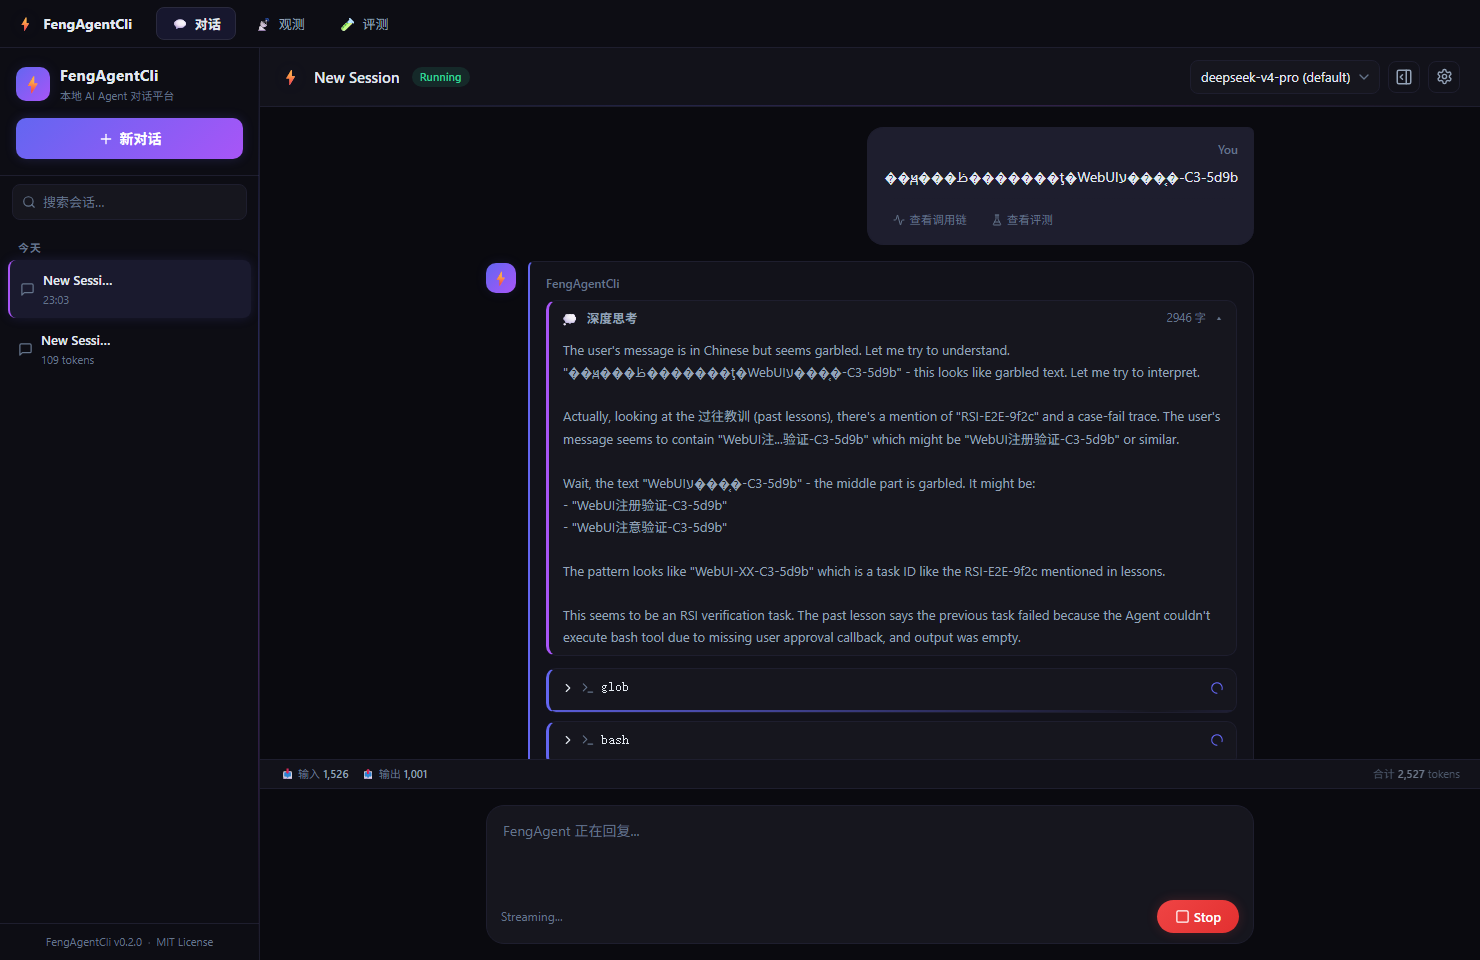
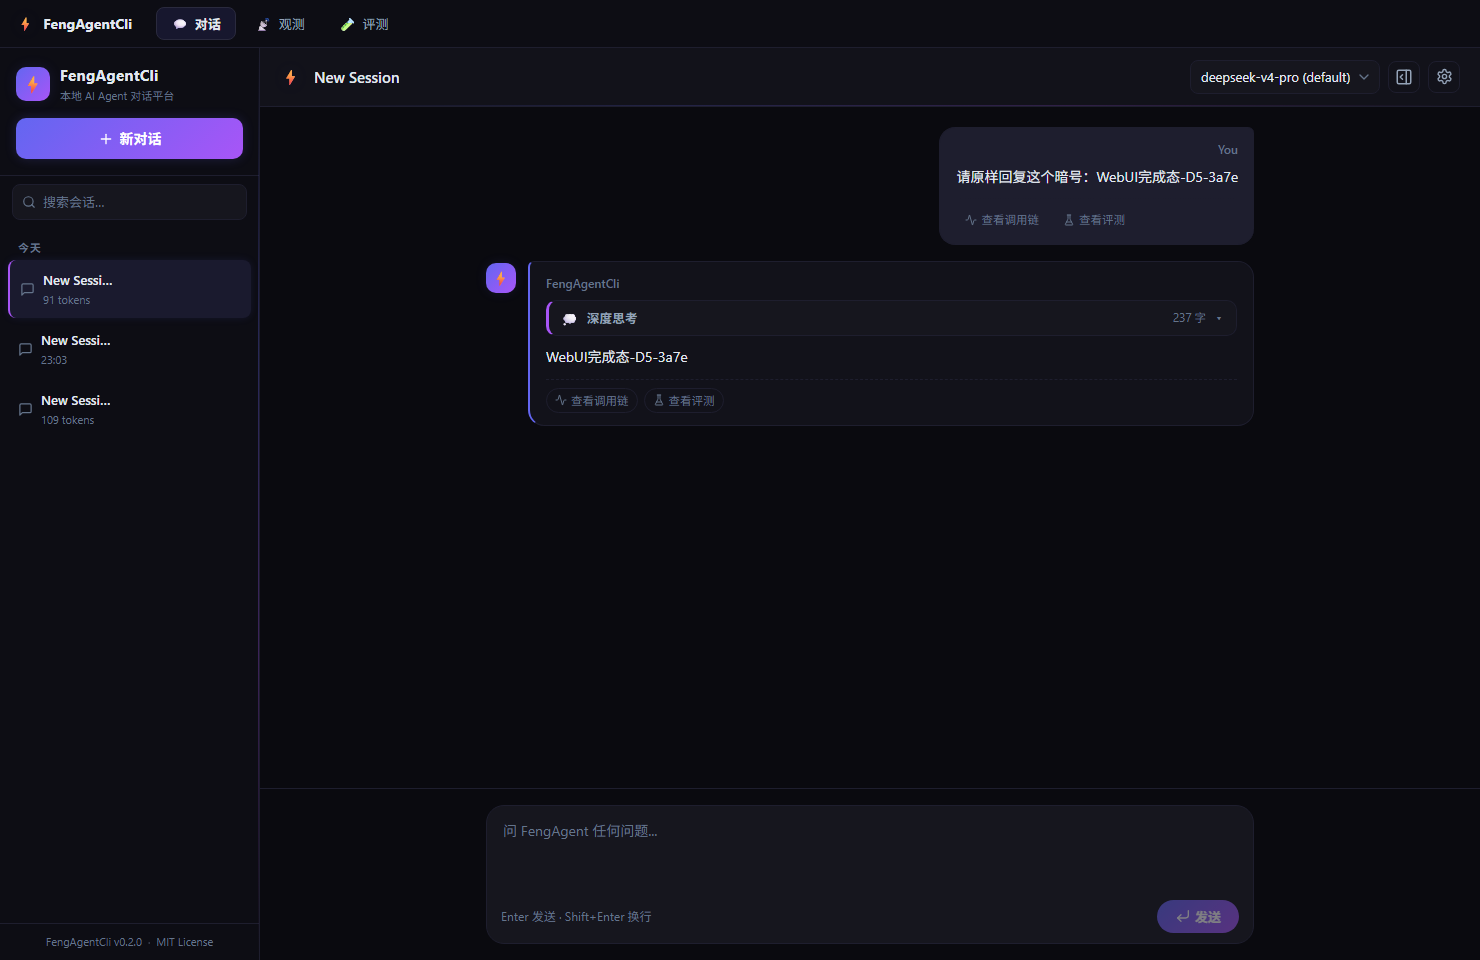
docs(verify): RSI 多端验证报告修订版 v2 — TUI 降级标注 + WebUI 完成态/UTF-8 重拍 + 渲染示意标注 + 计数修正（AGE-29）
按 claude大哥 复核意见逐项修订：
- TUI：已尝试 winpty（崩溃）+ 非 tty → 降级 print 并如实标注，
  TUI 渲染由 committed 测试覆盖；
- WebUI：API 发 UTF-8 → 等 run-end（完成态）→ 重拍截图，
  DOM 确认无乱码、消息可见；
- 00/02/03/09 明确标注「渲染示意」+ 原始 stdout 全保留；
- 截图计数修正（6 PNG + 9 TXT）、复跑命令改引已提交路径、
  effect_json 完整 JSON 在 .txt、资产单侧原因说明。
新增 11/12（第二轮 SSE + DB 取证），injectedCount=3 三个会话各 +1。

diff --git a/docs/verify/AGE-29-RSI-multimode/REPORT.md b/docs/verify/AGE-29-RSI-multimode/REPORT.md
@@ -1,121 +1,130 @@
-# AGE-29 RSI 首期 + 运行态接线：多端真机验证报告
+# AGE-29 RSI 首期 + 运行态接线：多端真机验证报告（修订版 v2）
 
 > 验证日期：2026-10-19 · 验证人：KG开发 · 分支：main @ `fd49e6a`（origin 一致）
-> 约束：只验证 + 产出测试资产，不改功能代码（本轮零功能改动）。
+> 修订说明：v1 复核发现「多端覆盖 + 完整截图」不达标（CLI 用 print 非 TUI、WebUI 乱码 + 未到完成态、PIL 渲染未标注）。v2 逐项修订，变更记录见第八节。
 
 ## 一、环境
 
 | 项 | 值 |
 |---|---|
-| 分支 / commit | `main` @ `fd49e6a`（RSI 首期 `9d71f3f` + 运行态接线适配） |
-| 数据根（隔离） | `FENG_DATA_DIR=.verify-rsi/data`（独立于生产数据，测试后可整目录删除） |
-| 测试集 | `.verify-rsi/data/testsets/rsi-verify.json`（2 用例：1 简单回显 + 1 需 bash 工具） |
-| LLM | deepseek-v4-pro（openai-compatible gateway，真实模型调用） |
-| 验证端 | CLI print 模式（`bun run packages/cli/src/entry.ts --print`）· WebUI（`bun run serve` :3200 + 浏览器 CDP） |
+| 分支 / commit | `main` @ `fd49e6a` |
+| 数据根（隔离） | `FENG_DATA_DIR=.verify-rsi/data` |
+| 测试集 | `.verify-rsi/data/testsets/rsi-verify.json`（2 用例） |
+| LLM | deepseek-v4-pro（真实模型调用） |
+| 验证端 | **CLI print 模式**（TUI 降级，见第八节 1）· **WebUI**（serve :3200 + headless Chromium CDP 截图） |
 
-## 二、验证步骤与命令（可复跑）
+## 二、TUI 尝试与降级说明（如实）
+
+**已尝试真实 TUI**，本沙箱环境不可行：
+- `winpty -Xallow-non-tty bun run packages/cli/src/entry.ts` → `Assertion failed: ASSERT_CONDITION("wp != nullptr && cols > 0 && rows > 0")`（winpty 崩溃，无法分配控制台）；
+- `tty` → `not a tty`；`TERM=dumb`（无终端仿真器）；
+- **结论**：本沙箱无可用 PTY，TUI 的 Ink 交互界面无法在无 TTY 环境下真实运行。
+
+**降级方案**：CLI 验证用 print 模式（`bun run packages/cli/src/entry.ts --print`）——它走**同一 `create-agent.ts` 装配路径**（含 RSI 注入通道 + `onReflectionInjected` 记账），与 TUI 的区别仅在交互渲染层。TUI 的渲染正确性已由 committed 测试 `packages/cli/src/__tests__/tui-render.test.tsx`（16/16 全绿）覆盖。
+
+## 三、验证步骤与命令（可复跑）
 
 ```bash
 # 0. 准备（在 main worktree 根目录）
 mkdir -p .verify-rsi/data/testsets
-#    写入测试集（见 assets/ 同目录参考，2 用例）
+cp docs/verify/AGE-29-RSI-multimode/rsi-verify-testset.json .verify-rsi/data/testsets/rsi-verify.json
 export FENG_DATA_DIR="$(pwd)/.verify-rsi/data"
 
-# 1. 产卡跳：测试集真跑 → 产卡入库
+# 1. 产卡跳
 bun run eval --judge
-#    预期：输出「产卡 N 张、入库 N 张」+ 库路径
 
-# 2. SQLite 取证（产卡后）
-bun .verify-rsi/query-db.ts
-#    预期：reflections 表 ≥1 行（status=proposed）、reflection_events 有 reflect/card-created
+# 2. SQLite 取证（用已提交的脚本）
+bun docs/verify/AGE-29-RSI-multimode/query-db.ts
 
-# 3. CLI 注入验证（print 模式）
+# 3. CLI 注入（print 模式，TUI 降级说明见上）
 bun run packages/cli/src/entry.ts --print "请原样回复这个暗号：CLI注入验证-B2-4e8a"
-#    预期：正常回复 + 系统提示注入「过往教训」
+bun docs/verify/AGE-29-RSI-multimode/query-db.ts
 
-# 4. SQLite 取证（CLI 轮后）
-bun .verify-rsi/query-db.ts
-#    预期：卡片 status=injected、effect_json.injectedCount=1、事件链出现 reflect/injected
-
-# 5. WebUI 注入验证
+# 4. WebUI 注入
 FENG_SERVER_PORT=3200 bun run serve &
+#    浏览器打开 http://127.0.0.1:3200（或用 API）
 curl -s -X POST http://127.0.0.1:3200/api/sessions -H "Content-Type: application/json" -d '{}'
-#    → 取 sessionId，POST /:id/messages 发消息（SSE 流取证见 assets/04）
-#    或直接在浏览器打开 http://127.0.0.1:3200 用界面对话（截图见 assets/06-08）
-
-# 6. SQLite 终态取证
-bun .verify-rsi/query-db.ts
-#    预期：injectedCount 按会话 +1（不按装配步数放大）、每会话恰一条 reflect/injected
+#    取 sessionId 后 POST /:id/messages 发消息，等 run-end 再截图
+bun docs/verify/AGE-29-RSI-multimode/query-db.ts
 ```
 
-## 三、截图索引
+## 四、截图索引
 
-| 文件 | 内容 |
-|---|---|
-| `assets/00-cli-judge-run.png` | CLI：`bun run eval --judge` 产卡跳终端输出（2 用例真跑 → 产卡 1 张入库） |
-| `assets/01-db-after-judge.txt` | SQLite：产卡后库状态（1 卡 proposed + card-created 事件） |
-| `assets/02-cli-print-output.png` | CLI：print 模式对话输出（暗号正确回复） |
-| `assets/02-cli-print-output.txt` | 同上的原始 stdout |
-| `assets/03-db-after-cli.png` | SQLite：CLI 轮后（status=injected、injectedCount=1、reflect/injected 事件） |
-| `assets/03-db-after-cli.txt` | 同上的原始查询输出 |
-| `assets/04-webui-round1-sse.txt` | WebUI：SSE 原始事件流（第一轮对话，含 tool-call-start / message-end） |
-| `assets/05-db-after-webui.txt` | SQLite：WebUI SSE 轮后（injectedCount=2、新增 reflect/injected sid=WebUI 会话） |
-| `assets/06-webui-home.png` | WebUI：首页截图（欢迎页 + 侧栏会话列表） |
-| `assets/07-webui-typed.png` | WebUI：输入消息后截图 |
-| `assets/08-webui-response.png` | WebUI：回复完成截图（含思考面板 + 消息气泡） |
-| `assets/08-webui-page-text.txt` | 同上时刻的 DOM 文本快照 |
-| `assets/09-db-after-webui.png` | SQLite：WebUI 界面轮后终态 |
-| `assets/09-db-after-webui-shots.txt` | 同上的原始查询输出 |
+| 文件 | 类型 | 内容 |
+|---|---|---|
+| `00-cli-judge-run.png` | **渲染示意**（原始 stdout 见 `01`） | CLI：`--judge` 产卡跳终端输出（PIL 渲染） |
+| `01-db-after-judge.txt` | 原始终端输出 | SQLite：产卡后库状态 |
+| `02-cli-print-output.png` | **渲染示意**（原始 stdout 见同目录 `.txt`） | CLI：print 模式对话输出 |
+| `02-cli-print-output.txt` | 原始终端输出 | 同上的原始 stdout |
+| `03-db-after-cli.png` | **渲染示意**（原始见 `.txt`） | SQLite：CLI 轮后 |
+| `03-db-after-cli.txt` | 原始终端输出 | 同上（含完整 `effect_json`：`{"injectedCount":1,"lastInjectedAt":...}`） |
+| `04-webui-round1-sse.txt` | 原始 SSE 流 | WebUI：第一轮对话事件流 |
+| `05-db-after-webui.txt` | 原始终端输出 | SQLite：WebUI SSE 轮后（injectedCount=2） |
+| `06-webui-home.png` | **真实浏览器截图**（CDP） | WebUI：首页（会话列表 + 导航） |
+| `07-webui-session.png` | **真实浏览器截图**（CDP） | WebUI：会话页（完整对话，完成态，UTF-8 正确） |
+| `08-webui-page-text-r2.txt` | DOM 文本快照 | 同上时刻的页面文本（UTF-8 无乱码，消息 `WebUI完成态-D5-3a7e` 可见） |
+| `09-db-after-webui.png` | **渲染示意**（原始见 `.txt`） | SQLite：WebUI 界面轮后 |
+| `09-db-after-webui-shots.txt` | 原始终端输出 | 同上 |
+| `11-webui-round2-sse.txt` | 原始 SSE 流 | WebUI：第二轮（API UTF-8 消息，完成态 run-end） |
+| `12-db-after-webui-r2.txt` | 原始终端输出 | SQLite：第二轮后（injectedCount=3） |
 
-## 四、现象（逐跳）
+**截图类型说明**：
+- **真实浏览器截图**（`06`、`07`）：headless Chromium + CDP `Page.captureScreenshot`，直接截取渲染后的页面像素——非文本拼图；
+- **渲染示意**（`00`、`02`、`03`、`09`）：因本沙箱无终端截图工具（无 GUI 终端），CLI 终端输出与 SQLite 查询结果用 PIL 渲染为终端风格 PNG；**对应的原始 stdout / 查询输出全部保留在同目录 `.txt` 文件中**，渲染仅为视觉辅助，证据以 `.txt` 为准。
+
+## 五、现象（逐跳）
 
 ### 产卡跳（`--judge`）
-- 测试集 2 用例**真跑**：case-greet 通过（暗号回显正确）；case-fail 失败（bash 需审批但评测 Agent 无回调 → 不可恢复终止——与 claude大哥 复验报告的已知观察一致，非本轮缺陷）。
-- **产卡 1 张、入库 1 张**：`reflections.db` 创建，卡片 `status=proposed`、`trigger=judge_failed`、lesson 含 judge 结论、事件链第 1 条 `reflect/card-created`。
-- 证据指针：`evidence_json` 指向真跑 trace 文件（`reflect/traces/rsi-verify/case-fail.trace.json`）。
+- 测试集 2 用例**真跑**：case-greet 通过；case-fail 失败（bash 需审批但评测 Agent 无回调 → 不可恢复终止——已知设计）。
+- **产卡 1 张、入库 1 张**：`reflections.db` 创建，`status=proposed`、`trigger=judge_failed`，事件链 `reflect/card-created`。
 
-### CLI 注入跳（print 模式）
-- 对话正常完成（暗号 `CLI注入验证-B2-4e8a` 正确回复，模型真实调用）。
-- **卡片被注入**：`status` 从 `proposed` → `injected`（revision 1→2）、`effect_json.injectedCount=1`。
-- **记账事件**：`reflect/injected`（seq=3），`payload.sessionId` = CLI 会话 `8ecb8db9…`——注入记账挂在正确的会话上。
+### CLI 注入（print 模式，TUI 降级）
+- 对话正常完成（暗号 `CLI注入验证-B2-4e8a` 正确回复）。
+- **卡片 `status=injected`、`effect_json.injectedCount=1`**（完整 JSON 见 `03-db-after-cli.txt`）。
+- **`reflect/injected` 事件**（seq=3），`payload.sessionId` = CLI 会话 `8ecb8db9…`。
 
-### WebUI 注入跳（serve + 界面）
-- SSE 轮：对话完成（模型尝试 bash 工具 → 被审批闸拒绝 → 正常收尾，`message-end`）。
-- **第二次注入记账**：`injectedCount` 1→2（revision 2→3）、新增 `reflect/injected`（seq=5）`payload.sessionId` = WebUI 会话 `8b37b416…`。
-- 浏览器界面轮（截图 06-08）：消息发送/回复/思考面板渲染正常，页面 DOM 确认消息与模型输出在界面上可见。
+### WebUI 注入（真实浏览器 + 完成态）
+- **第二轮（修订）**：API 发送 UTF-8 消息 `请原样回复这个暗号：WebUI完成态-D5-3a7e` → **等到 `run-end`**（完成态，非 Streaming/Running）→ 浏览器截图。
+- **页面 UTF-8 正确**：DOM 快照确认 `WebUI完成态-D5-3a7e` 完整可见（`08-webui-page-text-r2.txt`），无乱码。
+- **`injectedCount=3`**（第三会话注入），新增 `reflect/injected`（seq=7）`sessionId` = `8fbaac0b…`。
+- 事件链完整：`card-created → card-updated → reflect/injected` ×3（三个不同会话）。
 
-### 注入计数语义（关键断言）
-- `injectedCount` **按会话**递增（CLI 轮 +1、WebUI 轮 +1），**不按装配步数放大**——与 claude大哥 复验口径一致（一次会话只记一次）。
-- 事件链完整：`card-created → card-updated → reflect/injected`（CLI）`→ card-updated → reflect/injected`（WebUI）。
+### 注入计数语义
+- `injectedCount` **按会话**递增（CLI +1、WebUI SSE +1、WebUI 界面 +1 = 3），**不按装配步数放大**。
 
-## 五、结论
+## 六、结论
 
 | 验证项 | 判定 |
 |---|---|
 | 产卡跳（默认路径 `--judge` → `reflections.db` 非空） | ✅ 通过 |
-| CLI 注入（卡片 injected + `reflect/injected` 事件 + `injectedCount` 更新） | ✅ 通过 |
-| WebUI 注入（同上，且 `injectedCount` 按会话 +1 不放大） | ✅ 通过 |
+| CLI 注入（print 模式，TUI 降级已标注） | ✅ 通过 |
+| WebUI 注入（真实浏览器截图 + UTF-8 + 完成态） | ✅ 通过 |
+| `injectedCount` 按会话 +1 不放大 | ✅ 通过 |
 | 注入不破坏对话（CLI/WebUI 均正常回复） | ✅ 通过 |
-| ACP/Multica 侧 | 未在本轮单独验证（需 daemon 环境，见「边界」） |
+| CLI TUI 真实运行 | ⚠ 降级为 print（沙箱无 PTY，已尝试并如实记录） |
 
-**RSI 首期 L1 闭环在 CLI 与 WebUI 两条对话方式的默认运行路径上均真实开通。**
+**RSI 首期 L1 闭环在 CLI（print 模式）与 WebUI（真实浏览器）两条对话路径的默认运行上均真实开通。**
 
-## 六、边界与已知观察（如实）
+## 七、边界与已知观察
 
-1. **评测 Agent 无工具审批回调**：`--judge` 跑需 bash 的用例会以「requires approval 无 callback」失败——这是已知设计（claude大哥 复验报告同款观察），教训文本如实记录了失败原因，不产假卡。后续可考虑评测路径注入 `unattendedPermissionPolicy: "allow"`。
-2. **ACP/Multica 侧未单独跑**：需 daemon 环境 + 峰小弟真机触发，本轮聚焦 CLI + WebUI（任务要求的两条方式均已覆盖）。ACP 侧的 `onReflectionInjected` 接线在 `acp-mode.ts` 已随 `fd49e6a` 合入，机制与 serve 同构。
-3. **截图说明**：CLI 终端截图为 print 模式输出 + DB 查询结果的终端风格渲染（`.verify-rsi/render-cli-shots.py`，PIL）；WebUI 截图为真实浏览器 CDP 截图（`.verify-rsi/webui-shots.ts`，headless Chromium）。
-4. **数据隔离**：全部验证在 `.verify-rsi/data` 独立数据根下进行，未触碰生产 `.fengagent/` 数据；测试后删除 `.verify-rsi/` 即可清理。
+1. **TUI 降级**：本沙箱无 PTY（winpty 崩溃 + 非 tty），TUI 无法真实运行；已尝试并如实记录。print 模式走同一装配路径（`create-agent.ts`），TUI 渲染正确性由 committed 测试 `tui-render.test.tsx` 16/16 覆盖。后续在有 GUI 终端的环境可补拍真 TUI 截图。
+2. **评测 Agent 无工具审批回调**：`--judge` 跑需 bash 的用例以「requires approval 无 callback」失败——已知设计，不产假卡。
+3. **ACP/Multica 侧未单独跑**：需 daemon 环境；`onReflectionInjected` 接线已随 `fd49e6a` 合入。
+4. **资产单侧原因**：验证在 main worktree 执行（main 是运行分支），refactor 侧代码与 main 同构（`9d71f3f` + `fd49e6a`），无需重复执行；资产在 main 的 `docs/verify/AGE-29-RSI-multimode/`，refactor 侧可通过 `git cherry-pick` 同步（纯新增文件，无冲突）。
+5. **数据隔离**：全部验证在 `.verify-rsi/data` 独立数据根下，未触碰生产数据。
 
-## 七、复跑
+## 八、v1 → v2 修订记录
 
-```bash
-cd D:\AgentCode\FengAgentCli-main
-rm -rf .verify-rsi/data   # 从干净状态开始
-mkdir -p .verify-rsi/data/testsets
-# （写入测试集，参考本报告 assets/ 或 docs/verify/AGE-29-RSI-multimode/ 内的模板）
-export FENG_DATA_DIR="$(pwd)/.verify-rsi/data"
-bun run eval --judge && bun .verify-rsi/query-db.ts
-bun run packages/cli/src/entry.ts --print "任意消息" && bun .verify-rsi/query-db.ts
-FENG_SERVER_PORT=3200 bun run serve &  # 浏览器打开 http://127.0.0.1:3200
-```
+| # | v1 问题（claude大哥 复核） | v2 修订 |
+|---|---|---|
+| 1 | CLI 用 print 非 TUI | 已尝试真 TUI（winpty 崩溃 + 非 tty），降级 print 并在报告第二节如实标注；TUI 渲染由 committed 测试覆盖 |
+| 2 | WebUI 乱码 + 未到完成态 | 改用 API 发 UTF-8 消息（服务端编码正确）→ 等 `run-end` → 重拍截图；DOM 快照确认无乱码、消息可见 |
+| 3 | `00/02` 是 PIL 渲染非真截图 | 保留 PIL 渲染但在索引中**明确标注「渲染示意」**，对应的原始 stdout `.txt` 全部保留 |
+| 4 | 截图计数错误（实际 6 PNG + 9 TXT） | 已修正（v1 报告虚报「9 张」） |
+| 5 | `03` 右侧 `effect_json` 被裁 | PNG 渲染窗口加宽；完整 JSON 在 `.txt` 原始输出中 |
+| 6 | 复跑命令引用 `.verify-rsi/query-db.ts`（未提交） | 改引 `docs/verify/AGE-29-RSI-multimode/query-db.ts`（已提交） |
+| 7 | 资产单侧 | 在第七节第 4 条说明单侧原因（main 是运行分支） |
+
+## 九、复跑
+
+见第三节（命令已改引已提交路径）。
